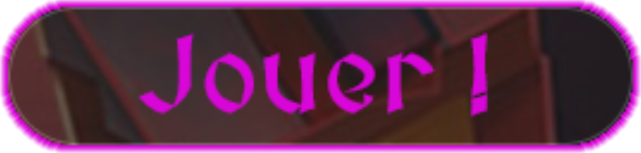
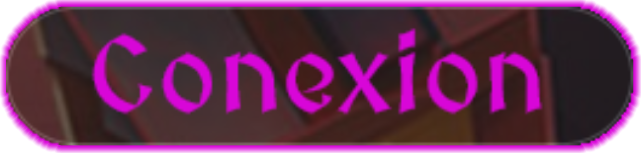
Fix : - bootstrap Object to update : - Interface

diff --git a/src/fr/jachou/hyronia/LauncherPanel.java b/src/fr/jachou/hyronia/LauncherPanel.java
@@ -6,8 +6,10 @@ import fr.theshark34.swinger.colored.SColoredBar;
 import fr.theshark34.swinger.event.SwingerEvent;
 import fr.theshark34.swinger.event.SwingerEventListener;
 import fr.theshark34.swinger.textured.STexturedButton;
+import javafx.scene.layout.Background;
 
 import javax.swing.*;
+import javax.swing.border.Border;
 import java.awt.*;
 import java.io.IOException;
 
@@ -21,8 +23,8 @@ public class LauncherPanel extends JPanel implements SwingerEventListener {
     private JTextField passwordField = new JPasswordField();
 
     private STexturedButton playButton = new STexturedButton(Swinger.getResource("play.png"));
-    private STexturedButton quitButton = new STexturedButton(Swinger.getResource("quit1.png"));
-    private STexturedButton hideButton = new STexturedButton(Swinger.getResource("quit.png"));
+    private STexturedButton quitButton = new STexturedButton(Swinger.getResource("croix.png"));
+    private STexturedButton hideButton = new STexturedButton(Swinger.getResource("fermer.png"));
 
     private SColoredBar progressBar = new SColoredBar(Swinger.getTransparentWhite(100), Swinger.getTransparentWhite(175));
     private JLabel infoLabel = new JLabel("Cliquez sur Jouer !");
@@ -35,7 +37,7 @@ public class LauncherPanel extends JPanel implements SwingerEventListener {
         usernameField.setCaretColor(Color.WHITE);
         usernameField.setOpaque(false);
         usernameField.setBorder(null);
-        usernameField.setBounds(80, 430, 390, 40);
+        usernameField.setBounds(71, 369, 390, 40);
         this.add(usernameField);
 
         passwordField.setForeground(Color.WHITE);
@@ -43,14 +45,14 @@ public class LauncherPanel extends JPanel implements SwingerEventListener {
         passwordField.setCaretColor(Color.WHITE);
         passwordField.setOpaque(false);
         passwordField.setBorder(null);
-        passwordField.setBounds(80, 566, 390, 40);
+        passwordField.setBounds(74, 495, 390, 40);
         this.add(passwordField);
 
-        playButton.setBounds(134, 640, 262, 58);
+        playButton.setBounds(163, 610, 262, 58);
         playButton.addEventListener(this);
         this.add(playButton);
 
-        quitButton.setBounds(470, 0, 79, 62);
+        quitButton.setBounds(500, 5, 10, 10);
         quitButton.addEventListener(this);
         this.add(quitButton);
 
@@ -61,7 +63,7 @@ public class LauncherPanel extends JPanel implements SwingerEventListener {
         progressBar.setBounds(18, 350, 510, 20);
         this.add(progressBar);
 
-        infoLabel.setBounds(190, 320, 200, 25);
+        infoLabel.setBounds(170, 320, 400, 25);
         infoLabel.setFont(usernameField.getFont());
         infoLabel.setForeground(Color.WHITE);
         this.add(infoLabel);

diff --git a/Bootsstrap/src/fr/jachou/hyronia/bootstrap/HyroniaBootstrap.java b/Bootsstrap/src/fr/jachou/hyronia/bootstrap/HyroniaBootstrap.java
@@ -1,6 +1,5 @@
 package fr.jachou.hyronia.bootstrap;
 
-import com.sun.jdi.event.ExceptionEvent;
 import fr.theshark34.openlauncherlib.bootstrap.Bootstrap;
 import fr.theshark34.openlauncherlib.bootstrap.LauncherClasspath;
 import fr.theshark34.openlauncherlib.bootstrap.LauncherInfos;
@@ -23,12 +22,12 @@ public class HyroniaBootstrap {
 
     private static final LauncherInfos HL_B_INFOS = new LauncherInfos("hyronia", "fr.jachou.hyronia.LauncherFrame");
     private static final File HL_B_DIR = GameDir.createGameDir("hyronia");
-    private static final LauncherClasspath Hl_B_P = new LauncherClasspath(new File(HL_B_DIR, "launcher.jar"), new File(HL_B_DIR, "Launcher/Libs/"));
+    private static final LauncherClasspath Hl_B_P = new LauncherClasspath(new File(HL_B_DIR, "Launcher/launcher.jar"), new File(HL_B_DIR, "Launcher/Libs/"));
 
     private static ErrorUtil errorUtil = new ErrorUtil(new File(HL_B_DIR, "Launcher/crashes/"));
 
     public static void main(String[] args) {
-        Swinger.setResourcePath("/fr/jachou/bootstrap/ressources");
+        Swinger.setResourcePath("/fr/jachou/hyronia/bootstrap/ressources");
         displaySplash();
         try {
             doUpdate();

diff --git a/src/fr/jachou/hyronia/Launcher.java b/src/fr/jachou/hyronia/Launcher.java
@@ -41,9 +41,9 @@ public class Launcher {
             @Override
             public void run() {
                 while (!this.isInterrupted()) {
-                    if (BarAPI.getNumberOfFileToDownload() == 0) {
+                    /*if (BarAPI.getNumberOfFileToDownload() < 1) {
                         LauncherFrame.getInstance().getLauncherPanel().setInfoText("Vérification des fichiers");
-                    }
+                    }*/
 
                     val = (int) (BarAPI.getNumberOfTotalDownloadedBytes() / 1000);
                     max = (int) (BarAPI.getNumberOfTotalBytesToDownload() / 1000);

diff --git a/src/fr/jachou/hyronia/LauncherFrame.java b/src/fr/jachou/hyronia/LauncherFrame.java
@@ -12,7 +12,7 @@ public class LauncherFrame extends JFrame {
 
     public LauncherFrame() {
         this.setTitle("Hyronia Launcher | V1.0");
-        this.setSize(540, 800);
+        this.setSize(540, 799);
         this.setDefaultCloseOperation(EXIT_ON_CLOSE);
         this.setLocationRelativeTo(null);
         this.setUndecorated(true);
